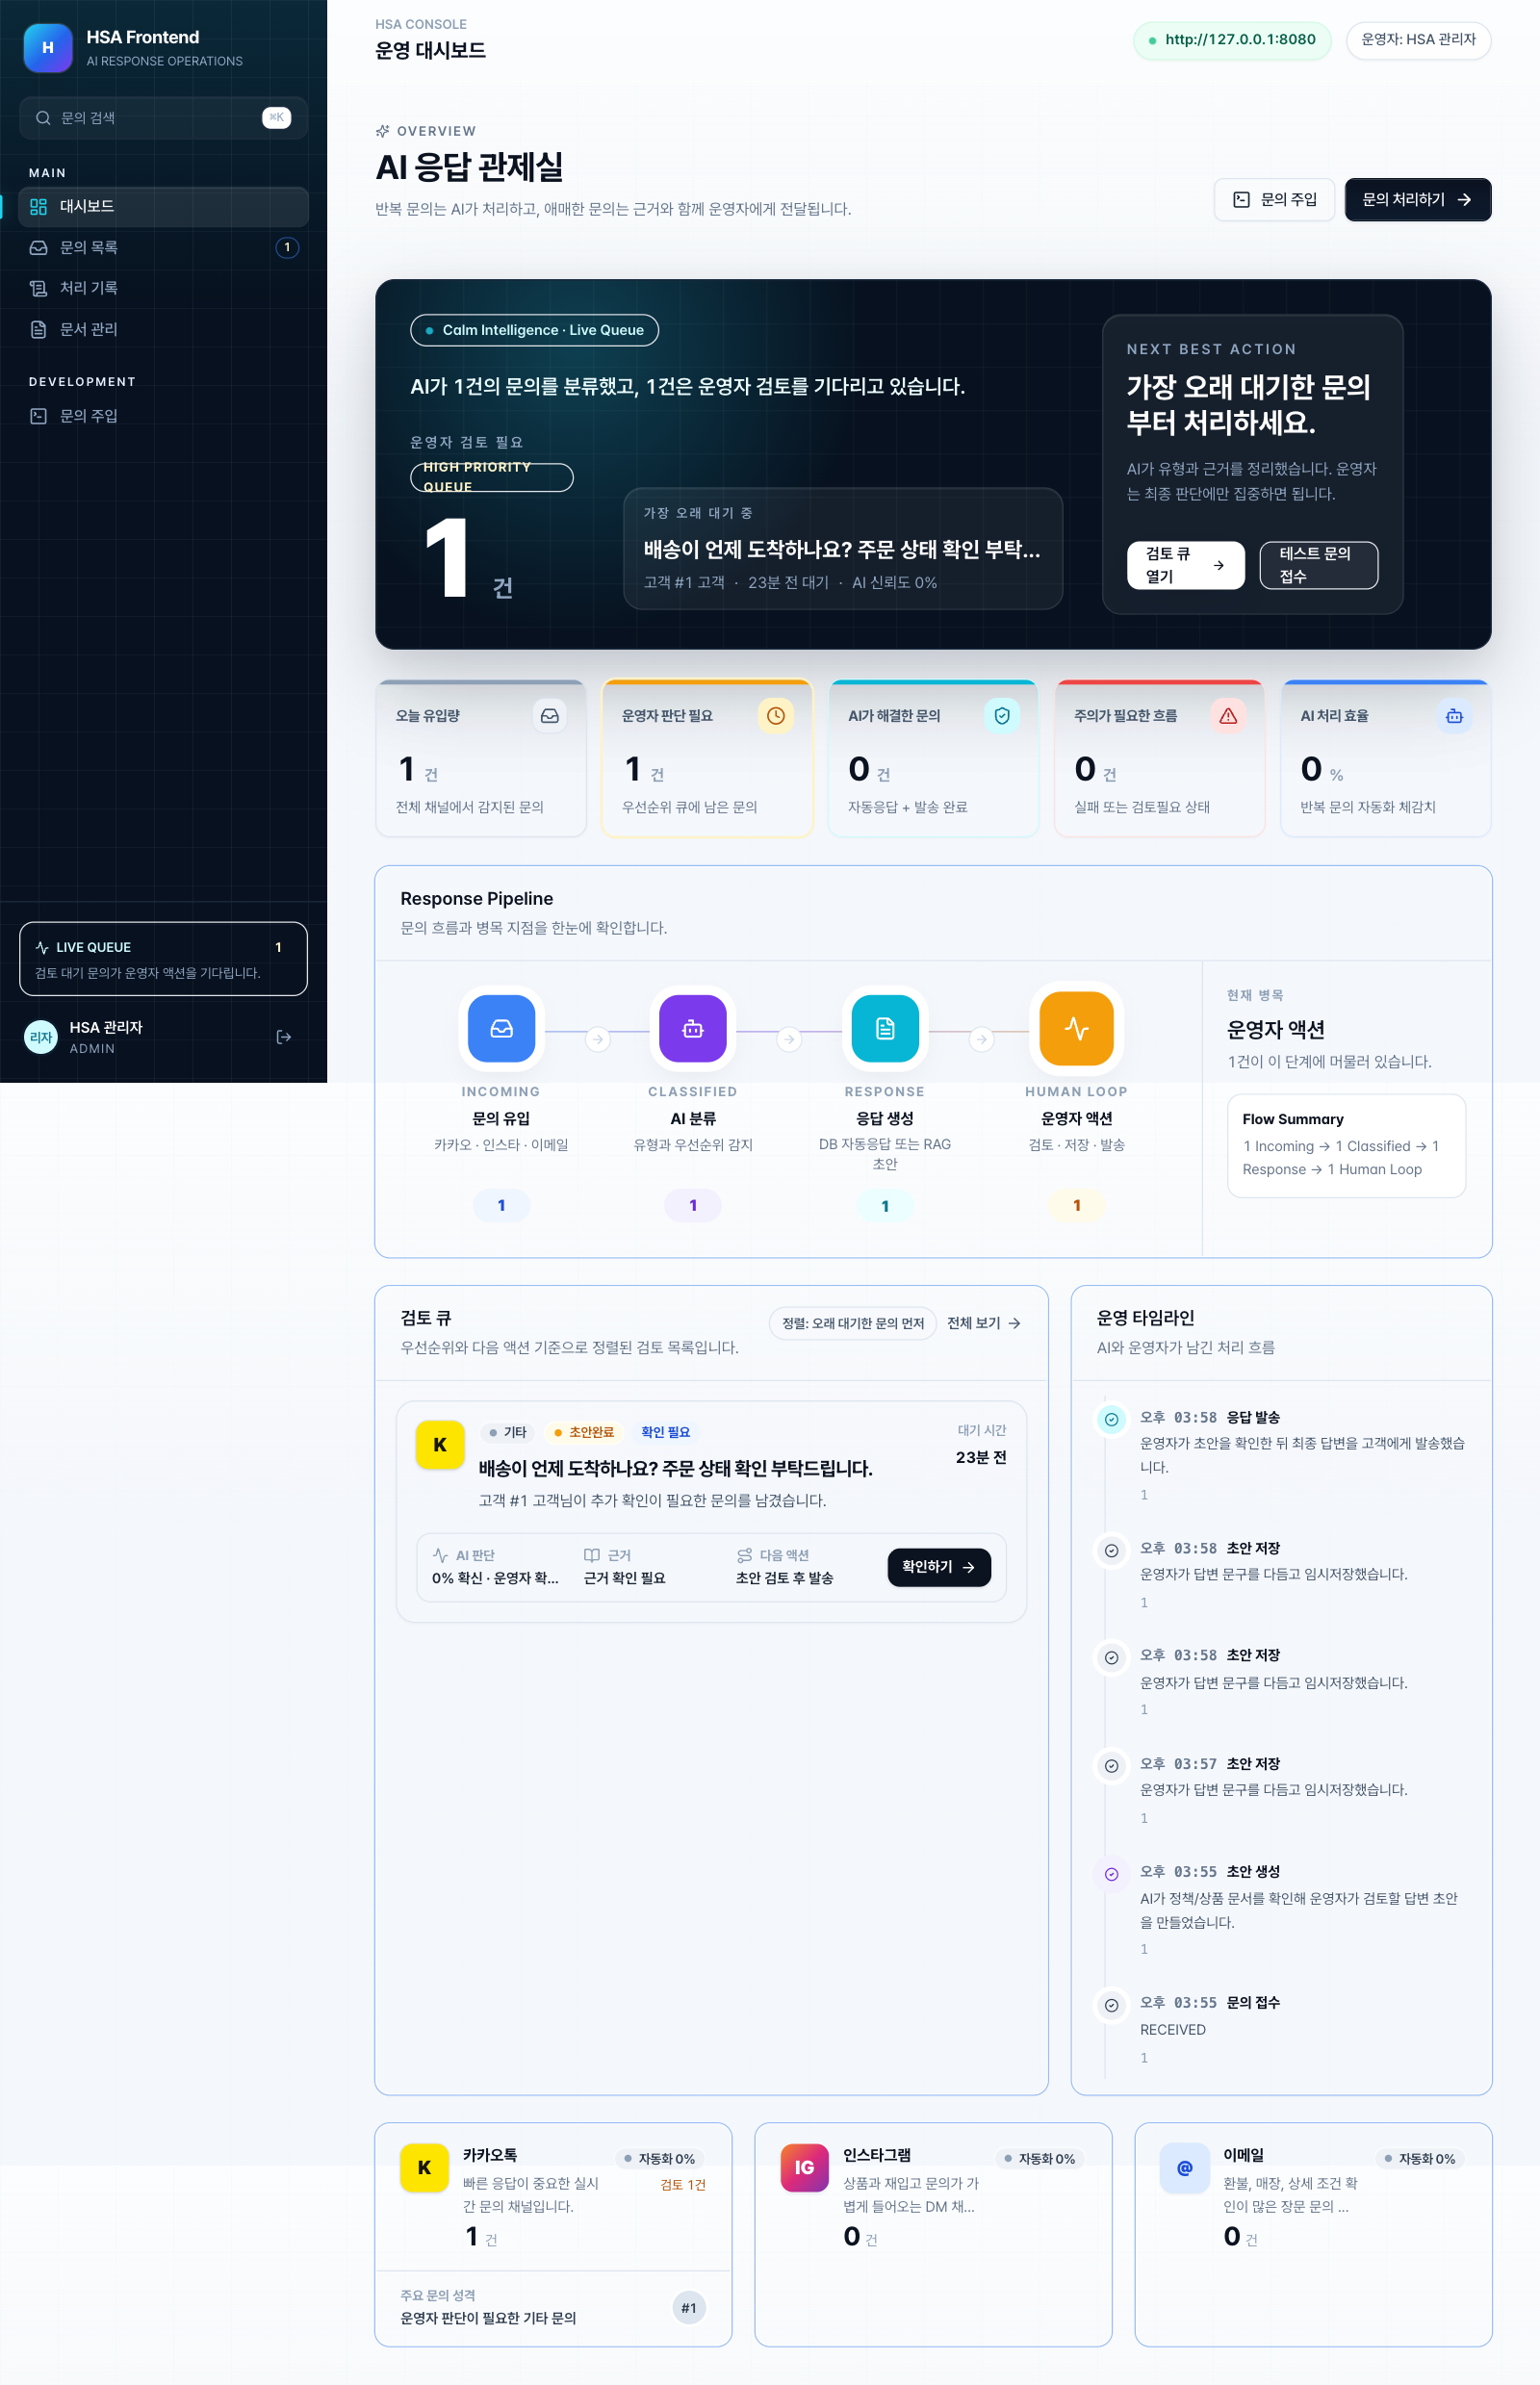
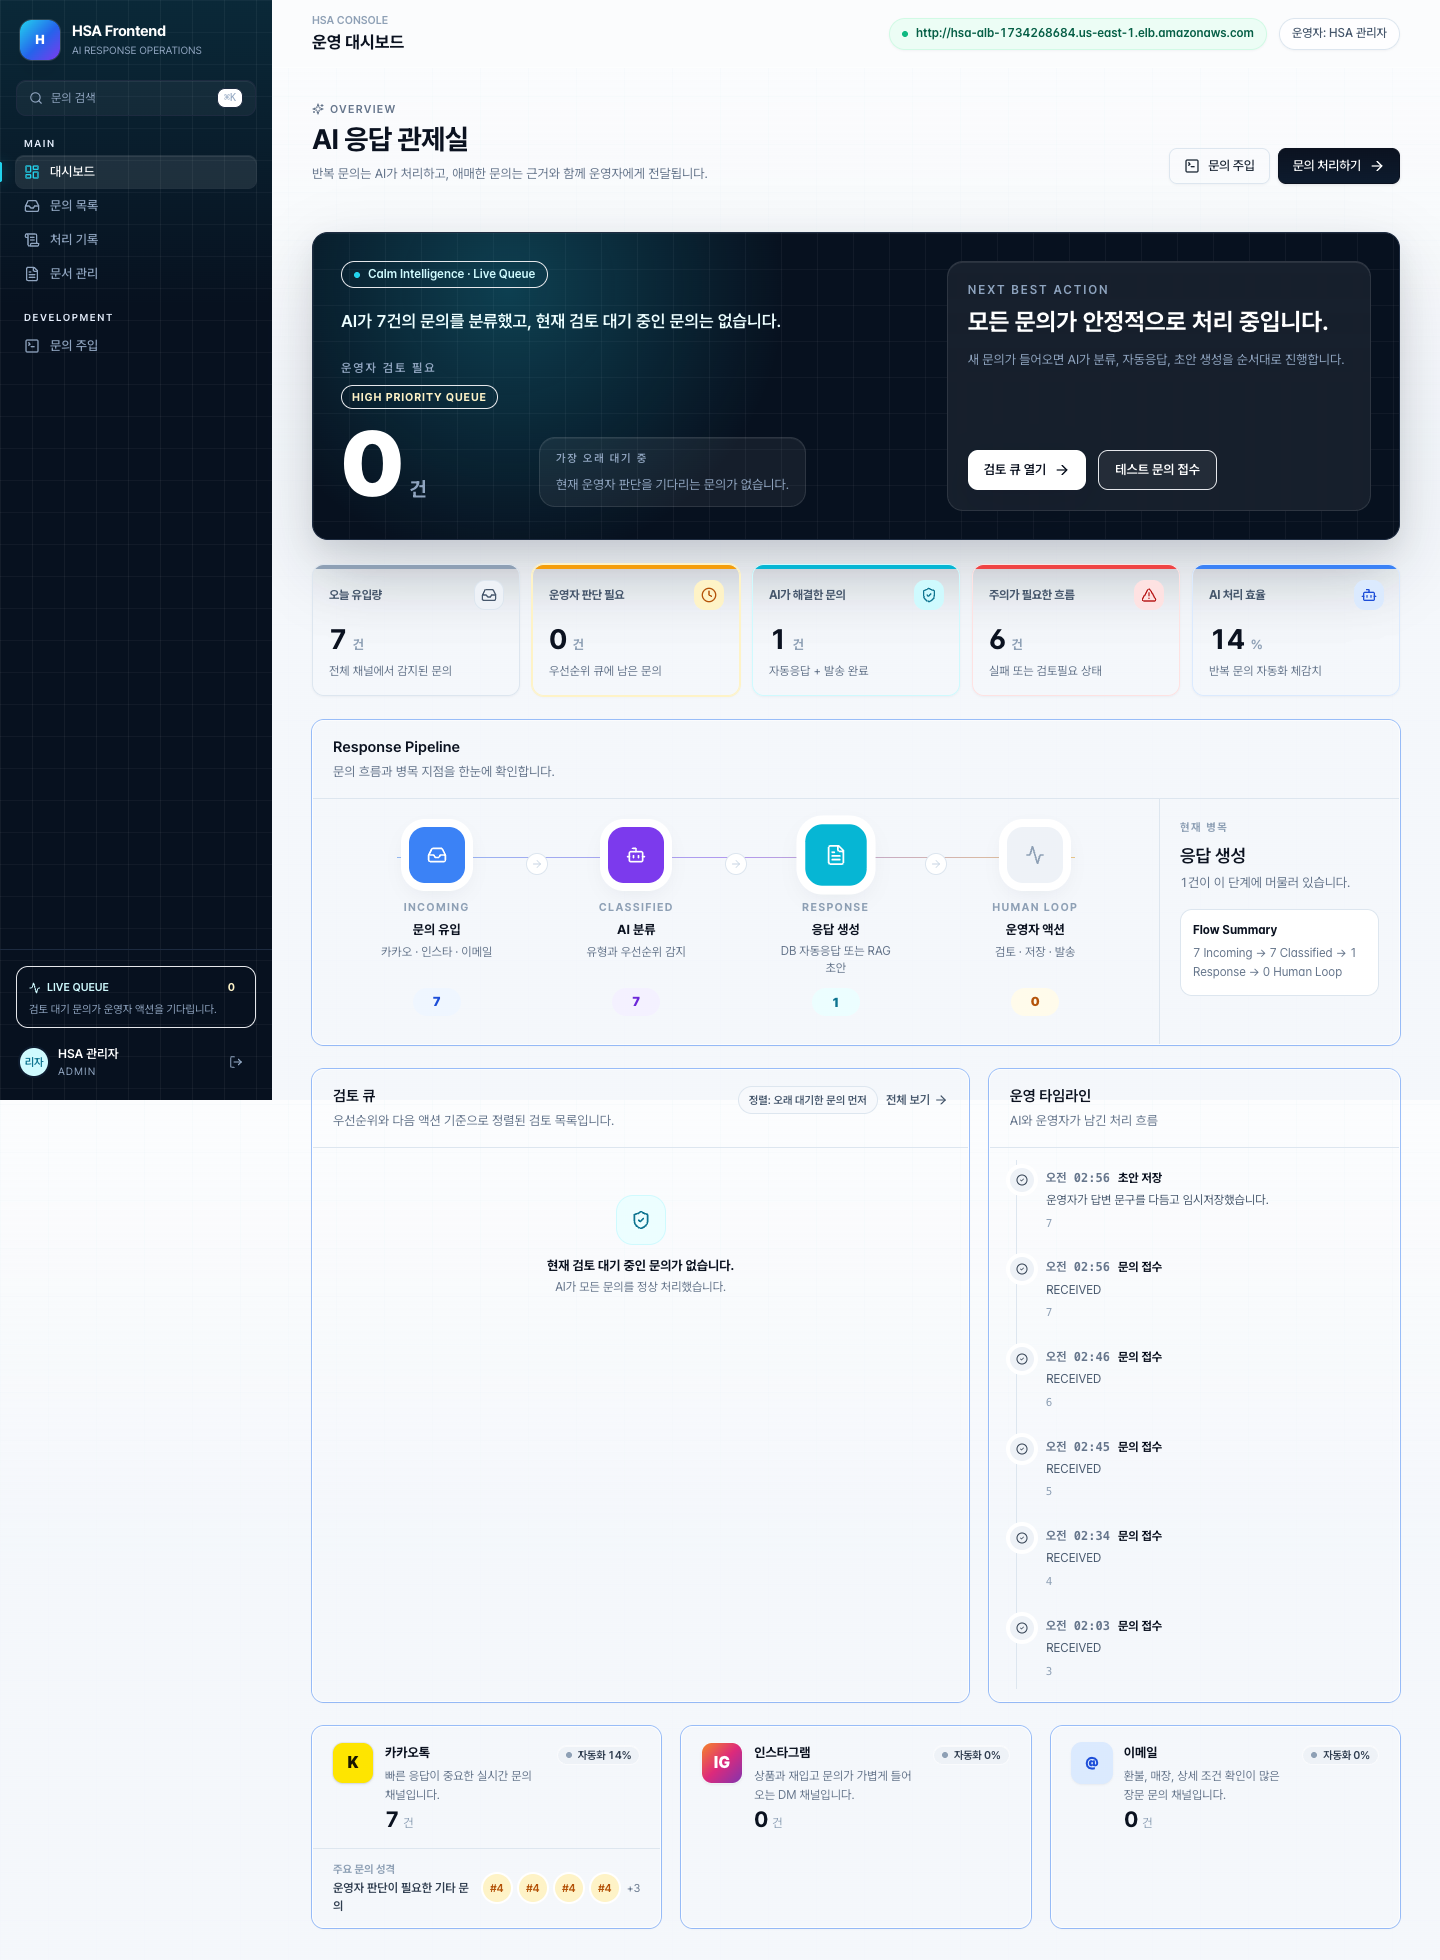
Docs: 배포 백엔드 연동 확인 반영

diff --git a/src/lib/api.ts b/src/lib/api.ts
@@ -76,6 +76,7 @@ interface BackendProcessingLog {
   createdTime?: string;
   createdAt?: string;
   currentState?: string;
+  detail?: string;
 }
 
 interface BackendResponseResponse {
@@ -240,7 +241,7 @@ function toLogEvent(log: BackendProcessingLog, fallbackInquiryId?: string): LogE
     id: String(log.logId ?? log.id ?? `${fallbackInquiryId ?? 'LOG'}-${log.createdTime ?? log.createdAt ?? Date.now()}`),
     inquiryId: log.inquiryId ? String(log.inquiryId) : fallbackInquiryId,
     eventType: toLogEventType(log.eventType),
-    message: log.message ?? log.currentState ?? log.eventType ?? '처리 로그',
+    message: log.message ?? log.detail ?? log.currentState ?? log.eventType ?? '처리 로그',
     createdAt: log.createdTime ?? log.createdAt ?? new Date().toISOString(),
   };
 }

diff --git a/README.md b/README.md
@@ -72,9 +72,26 @@ DB / RAG / Processing Logs
 | 문서 관리 | - | Backend contract needed |
 | 인증 세션 | - | Backend contract needed |
 
+### Deployed Backend Verification
+
+AWS ALB로 공개된 백엔드 Swagger와 API 응답을 확인했습니다.
+
+```text
+Swagger UI : http://hsa-alb-1734268684.us-east-1.elb.amazonaws.com/swagger-ui/index.html
+OpenAPI    : http://hsa-alb-1734268684.us-east-1.elb.amazonaws.com/api-docs
+Health     : http://hsa-alb-1734268684.us-east-1.elb.amazonaws.com/health
+Backend    : http://hsa-alb-1734268684.us-east-1.elb.amazonaws.com
+```
+
+확인 결과:
+- `/health`가 `Server is running perfectly!`로 응답합니다.
+- Swagger 기준 현재 프론트가 사용하는 문의/답변/로그 API가 배포 백엔드에 존재합니다.
+- `GET /api/admin/inquiries`가 실제 RDS 데이터로 정상 응답합니다.
+- 프론트 개발 서버에서 `VITE_API_PROXY_TARGET`을 ALB 주소로 바꿔 배포 백엔드 목록/상세 조회 화면을 확인했습니다.
+
 ### Local Integration Evidence
 
-로컬에서 다음 구성을 띄워 통합 흐름을 확인했습니다.
+로컬 백엔드/H2/AI stub 구성에서도 통합 흐름을 확인했습니다.
 
 ```text
 Frontend  : http://127.0.0.1:5173
@@ -110,7 +127,7 @@ cp .env.example .env.local
 `.env.local`:
 
 ```env
-VITE_API_PROXY_TARGET=http://127.0.0.1:8080
+VITE_API_PROXY_TARGET=http://hsa-alb-1734268684.us-east-1.elb.amazonaws.com
 VITE_API_BASE_URL=
 VITE_ADMIN_ID=1
 VITE_CHANNEL_ID=1